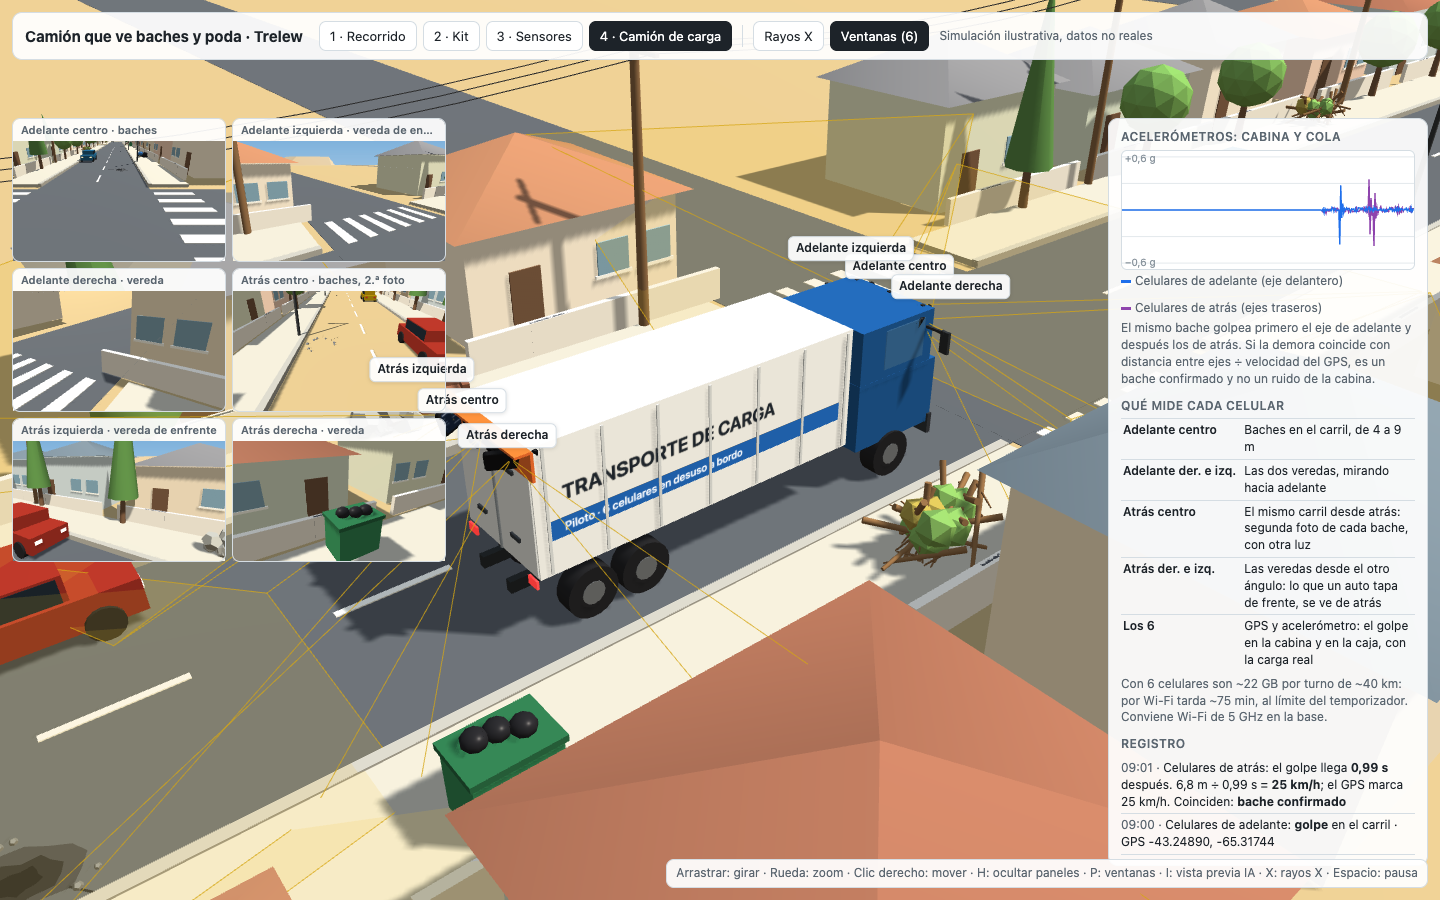
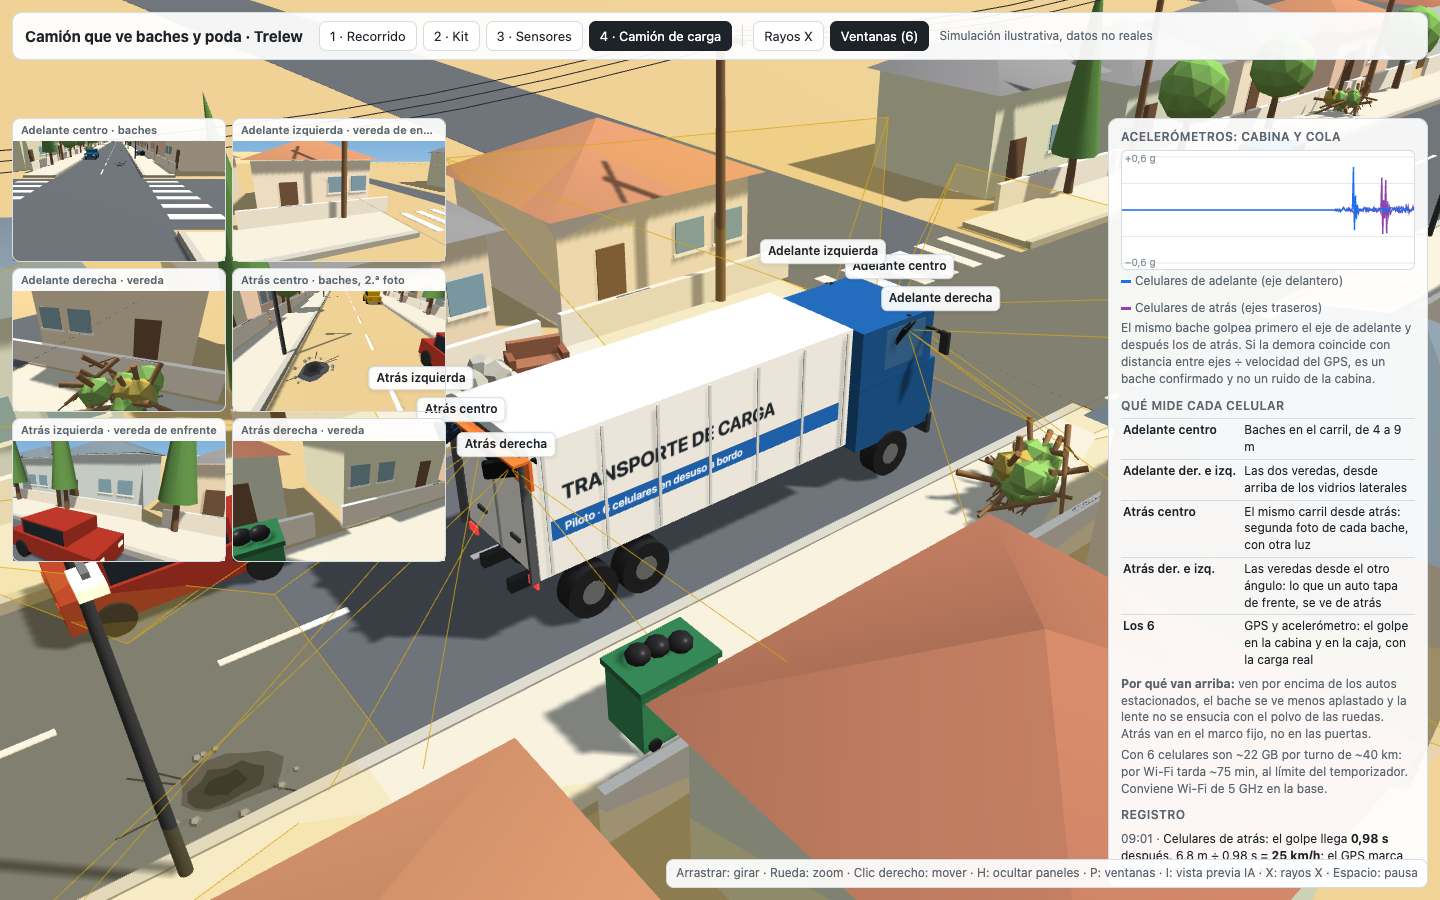
Camión de carga: celulares laterales en los vidrios y traseros en el marco fijo

diff --git a/03_visor_3d/visor_3d.html b/03_visor_3d/visor_3d.html
@@ -164,11 +164,12 @@
   <h2>Qué mide cada celular</h2>
   <table>
     <tr><td>Adelante centro</td><td>Baches en el carril, de 4 a 9 m</td></tr>
-    <tr><td>Adelante der. e izq.</td><td>Las dos veredas, mirando hacia adelante</td></tr>
+    <tr><td>Adelante der. e izq.</td><td>Las dos veredas, desde arriba de los vidrios laterales</td></tr>
     <tr><td>Atrás centro</td><td>El mismo carril desde atrás: segunda foto de cada bache, con otra luz</td></tr>
     <tr><td>Atrás der. e izq.</td><td>Las veredas desde el otro ángulo: lo que un auto tapa de frente, se ve de atrás</td></tr>
     <tr><td>Los 6</td><td>GPS y acelerómetro: el golpe en la cabina y en la caja, con la carga real</td></tr>
   </table>
+  <p><b>Por qué van arriba:</b> ven por encima de los autos estacionados, el bache se ve menos aplastado y la lente no se ensucia con el polvo de las ruedas. Atrás van en el marco fijo, no en las puertas.</p>
   <p>Con 6 celulares son ~22 GB por turno de ~40 km: por Wi-Fi tarda ~75 min, al límite del temporizador. Conviene Wi-Fi de 5 GHz en la base.</p>
   <h2>Registro</h2>
   <ul id="cargoLog" class="log"></ul>
@@ -997,6 +998,8 @@ const cargo = new THREE.Group(); cargo.visible = false; scene.add(cargo);
   cargo.add(box(.05, 2.6, .05, M(0x8a9199), -5.69, 2.65, 0));
   for (const z of [-.6, .6]) for (const y of [1.9, 3.3]) cargo.add(box(.06, .08, .3, M(0x7c8590, {metalness: .6}), -5.7, y, z));
   for (const z of [-1.1, 1.1]) cargo.add(box(.05, .18, .3, M(0xd64545, {emissive: 0x6a1010}), -5.7, 1.2, z));
+  cargo.add(box(.16, .24, 2.6, M(0x8a9199, {metalness: .5}), -5.76, 3.9, 0));          // marco fijo arriba de las puertas
+  for (const z of [-1.27, 1.27]) cargo.add(box(.16, 2.7, .08, M(0x8a9199, {metalness: .5}), -5.76, 2.65, z));
   const cTex = textTex(1024, 200, (g, w, h) => {
     g.fillStyle = "#1f5fa8"; g.fillRect(0, 140, w, 60);
     g.fillStyle = "#1d2329"; g.font = "700 62px system-ui"; g.fillText("TRANSPORTE DE CARGA", 40, 90);
@@ -1013,11 +1016,13 @@ for (const x of CARGO_AXLES) for (const z of [-1.1, 1.1]) {
 // los 6 celulares: 3 en el parabrisas y 3 en la cola, dentro de carcasas estancas
 const CC = [
   {key: "fc", name: "Adelante centro · baches", pos: V3(4.42, 3.45, 0), dir: V3(1, -.42, 0)},
-  {key: "fl", name: "Adelante izquierda · vereda de enfrente", pos: V3(4.4, 3.45, -1.0), dir: V3(.55, -.3, -1)},
-  {key: "fr", name: "Adelante derecha · vereda", pos: V3(4.4, 3.45, 1.0), dir: V3(.55, -.5, 1)},
-  {key: "rc", name: "Atrás centro · baches, 2.ª foto", pos: V3(-5.82, 3.75, 0), dir: V3(-1, -.5, 0), rear: true},
-  {key: "rl", name: "Atrás izquierda · vereda de enfrente", pos: V3(-5.82, 3.75, -1.0), dir: V3(-.55, -.3, -1), rear: true},
-  {key: "rr", name: "Atrás derecha · vereda", pos: V3(-5.82, 3.75, 1.0), dir: V3(-.55, -.5, 1), rear: true}
+  // los de los costados, arriba en los vidrios laterales (no en las esquinas del parabrisas, que tienen el parante)
+  {key: "fl", name: "Adelante izquierda · vereda de enfrente", pos: V3(3.75, 3.45, -1.18), dir: V3(.35, -.3, -1)},
+  {key: "fr", name: "Adelante derecha · vereda", pos: V3(3.75, 3.45, 1.18), dir: V3(.35, -.5, 1)},
+  // los de atrás, colgados del marco fijo de arriba: no de las puertas, que se abren para cargar
+  {key: "rc", name: "Atrás centro · baches, 2.ª foto", pos: V3(-5.86, 3.6, 0), dir: V3(-1, -.5, 0), rear: true},
+  {key: "rl", name: "Atrás izquierda · vereda de enfrente", pos: V3(-5.86, 3.6, -1.0), dir: V3(-.55, -.3, -1), rear: true},
+  {key: "rr", name: "Atrás derecha · vereda", pos: V3(-5.86, 3.6, 1.0), dir: V3(-.55, -.5, 1), rear: true}
 ];
 const cargoHelpers = [], cargoPhones = [];
 const frusMat = new THREE.LineBasicMaterial({color: 0xd4a514, transparent: true, opacity: .75});
@@ -1033,6 +1038,7 @@ for (const c of CC) {
     const h = new THREE.Group();
     h.add(box(.06, .56, .98, M(0xe0672b, {roughness: .6}), .12, 0, 0));
     h.add(box(.32, .05, 1.0, M(0xe0672b, {roughness: .6}), -.04, .3, 0));
+    h.add(box(.06, .1, .06, M(0x5d6166), .08, .34, 0));   // soporte al marco
     h.position.copy(c.pos); cargo.add(h);
   } else cargo.add(box(.08, .2, .08, dark, c.pos.x, 3.7, c.pos.z));
   c.cam = new THREE.PerspectiveCamera(43, 16 / 9, .6, 140);
@@ -1065,8 +1071,10 @@ const cargoWiring = buildWiring(cargo, [
   {col: WIRE.gnd, pts: [V3(3.7, 2.4, -.55), V3(3.4, 1.6, -.5), V3(3.0, .98, -.5)], n: 2},
   {col: WIRE.timed, pts: [V3(3.7, 2.45, -.55), V3(3.75, 2.5, -.1), V3(3.7, 2.45, .35)], n: 2},
   {col: WIRE.timed, rad: .035, n: 6, sp: .25, pts: [V3(3.7, 2.4, -.55), V3(3.2, 1.6, -.6), V3(2.4, 1.0, -.55), V3(0, .98, -.55), V3(-3, .98, -.55), V3(-4.9, .98, -.55), V3(-5.35, 1.05, -.2)]},
-  ...[0, -1.0, 1.0].map(z => ({col: WIRE.usb, rad: .022, pts: [V3(3.7, 2.5, .35), V3(4.3, 2.6, z * .8), V3(4.42, 3.6, z), V3(4.42, 3.7, z), V3(4.42, 3.55, z)]})),
-  ...[0, -1.0, 1.0].map(z => ({col: WIRE.usb, rad: .022, pts: [V3(-5.35, 1.25, 0), V3(-5.72, 1.5, z * .9), V3(-5.74, 3.2, z), V3(-5.8, 3.6, z)]}))
+  {col: WIRE.usb, rad: .022, pts: [V3(3.7, 2.5, .35), V3(4.3, 2.6, 0), V3(4.42, 3.6, 0), V3(4.42, 3.7, 0), V3(4.42, 3.55, 0)]},
+  ...[-1, 1].map(s => ({col: WIRE.usb, rad: .022, pts: [V3(3.7, 2.5, .35), V3(4.0, 2.6, s), V3(4.1, 3.6, s * 1.2), V3(3.8, 3.72, s * 1.18), V3(3.75, 3.6, s * 1.18)]})),
+  // atrás: el cable sube por el parante fijo y sigue por el marco, nunca por la puerta
+  ...[0, -1.0, 1.0].map(z => { const s = z < 0 ? -1 : 1; return {col: WIRE.usb, rad: .022, pts: [V3(-5.35, 1.25, 0), V3(-5.74, 1.45, 1.2 * s), V3(-5.78, 3.7, 1.2 * s), V3(-5.8, 3.86, (1.2 * s + z) / 2), V3(-5.84, 3.75, z)]}; })
 ]);
 const cargoX = prepXray(cargo, [cargoWiring.g, ...cargoPhones, ...cargoHelpers]);
 let xrayCarga = false;
